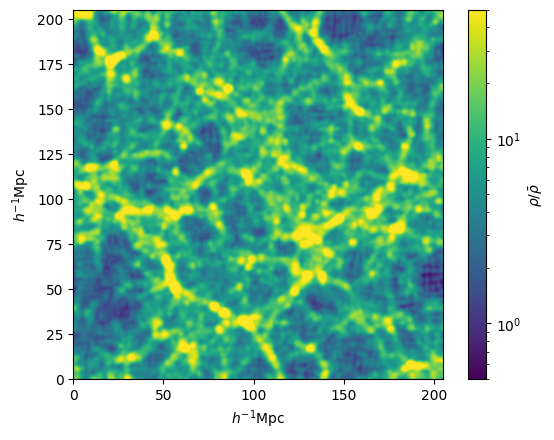
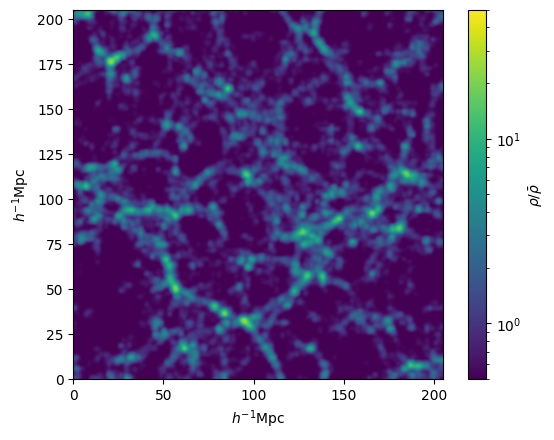
Correct FastPM ods with pylians-like code.

diff --git a/pylians_genimage_fastpm.py b/pylians_genimage_fastpm.py
@@ -37,7 +37,7 @@ if args.Npixels:
     print("Upsampling true.")
 else:
     Npixels = Nmesh
-    fout = f'PLFastPMoverdensity{Nmesh}.png'
+    fout = f'FastPMoverdensity{Nmesh}.png'
 
 min_overdensity = 0.5     # Minimum overdensity to plot
 max_overdensity = 50.0    # Maximum overdensity to plot
@@ -79,10 +79,12 @@ X[:, 0] -= xmin;  X[:, 1] -= ymin;  X[:, 2] -= zmin
 plane_dict = {'XY':[0, 1], 'XZ':[0, 2], 'YZ':[1, 2]}
 X = X[:, plane_dict[plane]]
 
+slice_mass = len(X)
+
 # Compute overdensity somehow
 MASL.MA(X, overdensity, BoxSize_slice, MAS='CIC', W=None, renormalize_2D=True)
 
-print(f"Expected mass = {total_mass}, computed mass = {np.sum(overdensity)}.")
+print(f"Expected mass = {slice_mass}, computed mass = {np.sum(overdensity)}.")
 
 # Mean density in the whole box
 mass_density = total_mass/args.BoxSize**3
